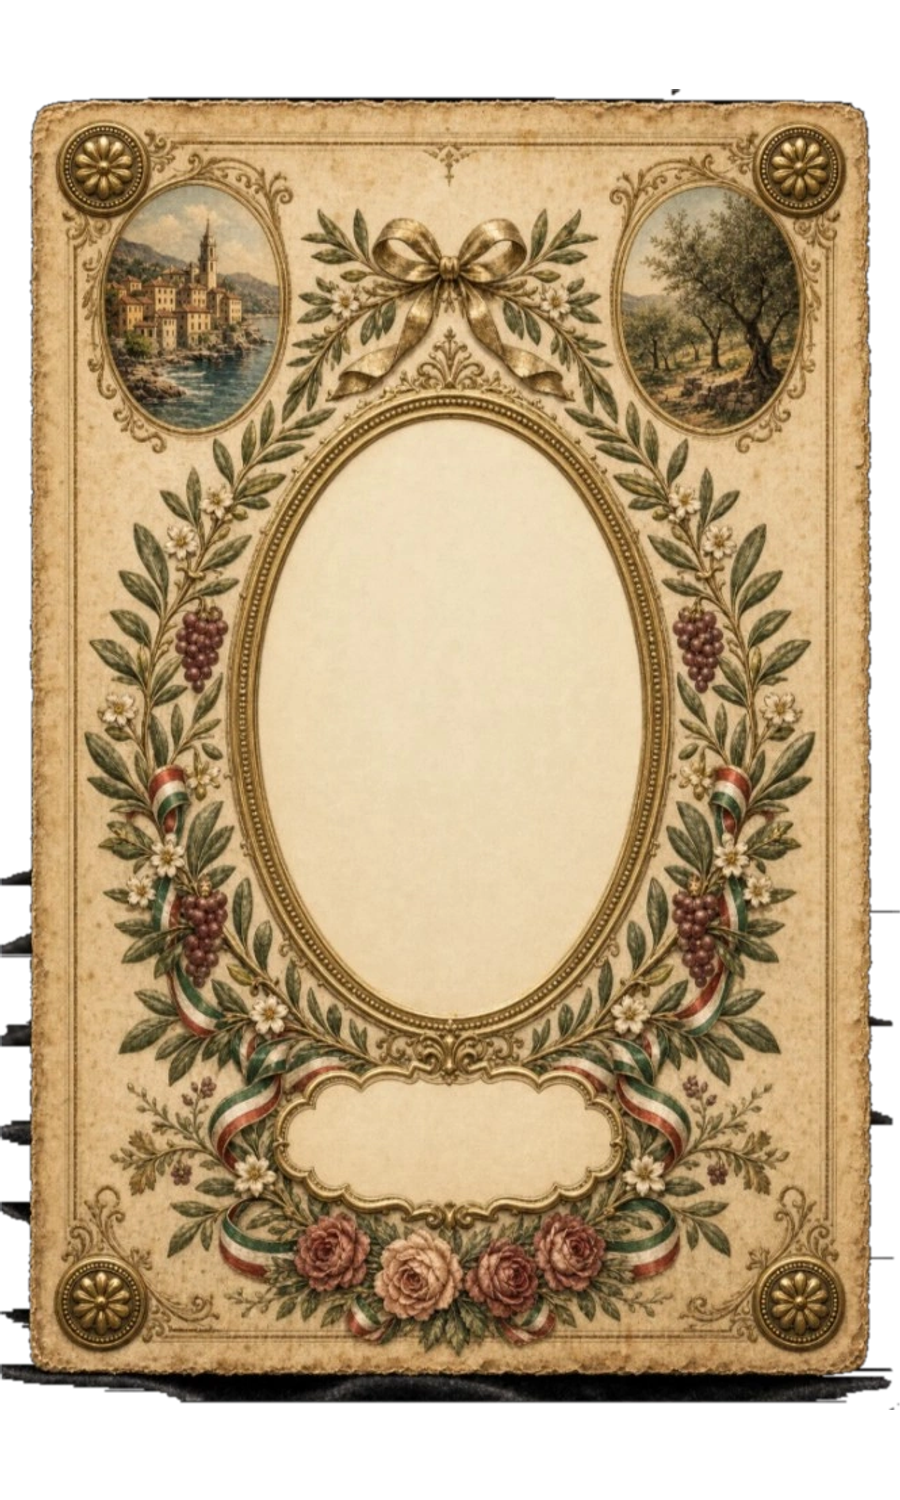
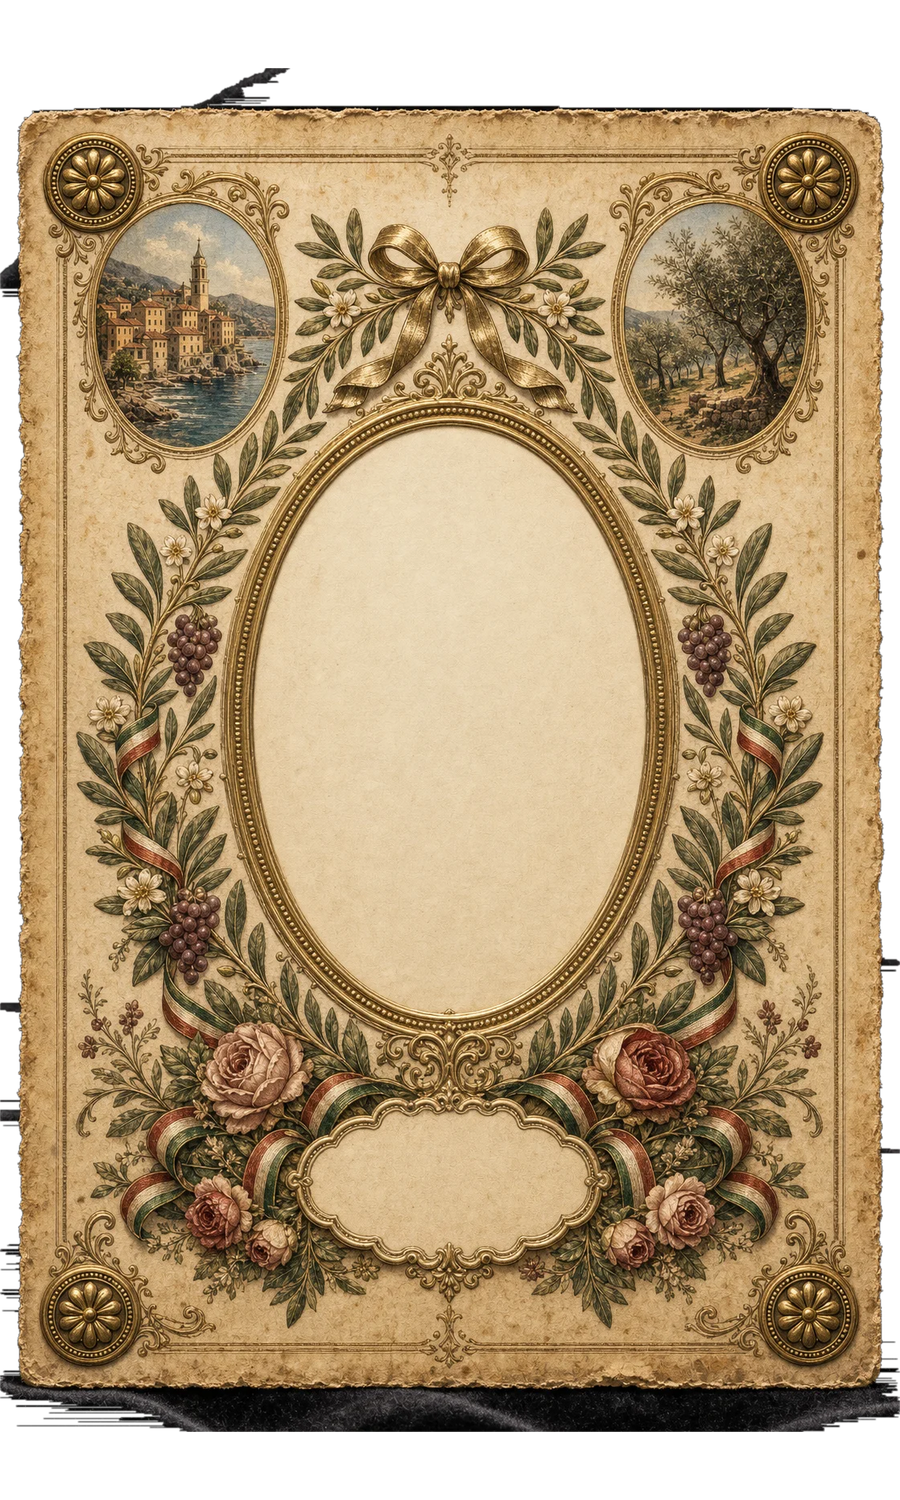
fix: retune feminine Italy frame slots and pipeline guardrails
Rebuild the feminine Italian kit with better window/plaque geometry, and document that every card needs a generous nameplate plus no duplicate vignettes within a face.

diff --git a/components/showcase/ancestor-card.tsx b/components/showcase/ancestor-card.tsx
@@ -76,8 +76,8 @@ const FRAMES = {
   "italian-feminine": {
     src: "/card-kits/italian-heritage-feminine/cards/italian-heritage-feminine-frame.png",
     aspect: "900 / 1500",
-    window: { left: 30.8, top: 29.3, width: 38.0, height: 37.1, shape: "oval" },
-    plaque: { left: 34.4, top: 73.3, width: 31.4, height: 5.8 },
+    window: { left: 29.2, top: 29.4, width: 41.3, height: 37.8, shape: "oval" },
+    plaque: { left: 35.9, top: 74.9, width: 27.6, height: 7.5 },
     maps: {
       normal: "/card-kits/italian-heritage-feminine/maps/italian-heritage-feminine-normal.png",
       roughness: "/card-kits/italian-heritage-feminine/maps/italian-heritage-feminine-roughness.png",

diff --git a/.claude/skills/card-art-pipeline/SKILL.md b/.claude/skills/card-art-pipeline/SKILL.md
@@ -113,6 +113,31 @@ the arch are identical in color and form, mirrored left-to-right, not two differ
 rather than trusting "symmetric" alone, and check every flanking pair in the result before
 accepting: same rail motif, same flower color, same medallion, corner vignettes balanced in weight.
 
+**Every card needs both a window AND a nameplate — no exceptions, and both sized generously.**
+This is not a per-card judgment call: reject any option missing either one outright, regardless of
+how good the rest of the art is (observed repeatedly — a gorgeous rose garland or wreath with no
+empty plaque anywhere is not shippable, it's a dead end that costs a full regeneration cycle). Give
+the nameplate real size, not a decorative sliver: it has to hold a full name and a birth–death year
+range legibly, so undersize it and every card in the set inherits the same fix later. When unsure
+whether a nameplate is big enough, size it toward the *largest* comfortable option in the set, not
+the smallest.
+
+**Keep window and nameplate size consistent across the whole set.** Different themes will naturally
+land at different proportions from generation to generation, but don't let that drift go unchecked —
+after generating a theme, compare its window/plaque size against the rest of the set and regenerate
+outliers so every card reads as the same "weight" of object at a glance. If some vary, err toward
+the *larger* end of the set as the target (a bigger window and card reads better than a cramped
+one), never toward the smallest. This is a different axis from Phase 0b's per-theme differentiation
+— vary the *style* of the window/frame per theme, not its *size* relative to the rest of the set.
+
+**Never duplicate an object within one card.** Each corner vignette, each flanking motif instance,
+each medallion must depict something distinct from every other element on that same card — repeating
+the same little scene or charge twice on one face reads as a generation shortcut, not a design
+choice. Mirrored *pairs* (Phase 0b's bilateral symmetry) are the one deliberate exception: the two
+flanking sprays or ribbons are supposed to be identical to each other, that's symmetry, not
+duplication — duplication is two *different* slots on the card (e.g. both corner vignettes) showing
+the same scene.
+
 **The portrait window is the subject — keep it dominant.** This is a portrait frame, not a border
 showcase: the arched window must read as the single biggest element on the card, not one motif
 among equals. Target the window spanning roughly 45–60% of the card's height. Say so explicitly in
